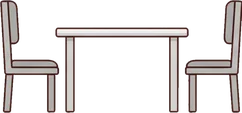
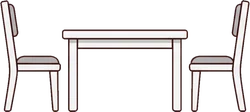
Furniture seen slightly from above; bedroom window and bigger bedroom furniture
- Coffee tables, stoves, dining sets, coffee makers, beds, desks and rugs redrawn facing straight
  with the camera slightly above, so top surfaces show like the sofa and floor
- Bedroom background gets a window (same window art as the living room) and a curtains slot
- Bedroom furniture enlarged and re-laid out: desk, lamp, bed, wardrobe, plant all visible

Claude-Session: https://claude.ai/code/session_01NSnqts5pZGZujReYG19exU

diff --git a/src/ui/art.tsx b/src/ui/art.tsx
@@ -42,7 +42,7 @@ const ROOM_ART: Record<RoomKind, Partial<Record<DecorSlot, Place>>> = {
     window: { x: 27.5, w: 40, bottom: 55, h: 44 },
     wall: { x: 64, w: 12, bottom: 47, h: 18 },
     shelf: { x: 86, w: 20, bottom: 38, h: 14 },
-    rug: { x: 55, w: 52, bottom: 93, h: 6 },
+    rug: { x: 55, w: 50, bottom: 99, h: 18 },
     plant: { x: 7, w: 12, bottom: 88, h: 24 },
     sofa: { x: 60, w: 40, bottom: 86, h: 22 },
     lamp: { x: 89, w: 12, bottom: 88, h: 40 },
@@ -58,13 +58,14 @@ const ROOM_ART: Record<RoomKind, Partial<Record<DecorSlot, Place>>> = {
     dining: { x: 45, w: 42, bottom: 99, h: 22 },
   },
   bedroom: {
-    wall: { x: 50, w: 13, bottom: 40, h: 18 },
-    wardrobe: { x: 90, w: 16, bottom: 88, h: 48 },
-    desk: { x: 16, w: 26, bottom: 89, h: 18 },
-    plant: { x: 33, w: 7, bottom: 89, h: 18 },
-    rug: { x: 56, w: 40, bottom: 99, h: 5 },
-    bed: { x: 56, w: 36, bottom: 95, h: 20 },
-    lamp: { x: 78, w: 7, bottom: 90, h: 30 },
+    window: { x: 50, w: 44, bottom: 58, h: 48 },
+    wall: { x: 17, w: 14, bottom: 44, h: 18 },
+    wardrobe: { x: 92, w: 17, bottom: 90, h: 52 },
+    desk: { x: 18, w: 35, bottom: 91, h: 24 },
+    lamp: { x: 39, w: 9, bottom: 90, h: 34 },
+    rug: { x: 64, w: 40, bottom: 99, h: 14 },
+    bed: { x: 64, w: 44, bottom: 96, h: 32 },
+    plant: { x: 6, w: 10, bottom: 99, h: 22 },
   },
 };
 

diff --git a/src/core/content.ts b/src/core/content.ts
@@ -257,7 +257,7 @@ const SLOT_NAMES: Record<DecorSlot, L10n> = {
 export const ROOM_SLOTS: Record<RoomKind, DecorSlot[]> = {
   hall: ['sofa', 'table', 'lamp', 'wall', 'window', 'rug', 'plant', 'shelf'],
   kitchen: ['stove', 'fridge', 'dining', 'coffeemaker', 'shelf', 'plant', 'window'],
-  bedroom: ['bed', 'desk', 'wardrobe', 'lamp', 'wall', 'rug', 'plant'],
+  bedroom: ['bed', 'desk', 'wardrobe', 'lamp', 'wall', 'window', 'rug', 'plant'],
 };
 
 export const ROOMS: Record<RoomKind, { name: L10n; icon: string }> = {

diff --git a/supabase/functions/_shared/core/content.ts b/supabase/functions/_shared/core/content.ts
@@ -257,7 +257,7 @@ const SLOT_NAMES: Record<DecorSlot, L10n> = {
 export const ROOM_SLOTS: Record<RoomKind, DecorSlot[]> = {
   hall: ['sofa', 'table', 'lamp', 'wall', 'window', 'rug', 'plant', 'shelf'],
   kitchen: ['stove', 'fridge', 'dining', 'coffeemaker', 'shelf', 'plant', 'window'],
-  bedroom: ['bed', 'desk', 'wardrobe', 'lamp', 'wall', 'rug', 'plant'],
+  bedroom: ['bed', 'desk', 'wardrobe', 'lamp', 'wall', 'window', 'rug', 'plant'],
 };
 
 export const ROOMS: Record<RoomKind, { name: L10n; icon: string }> = {
